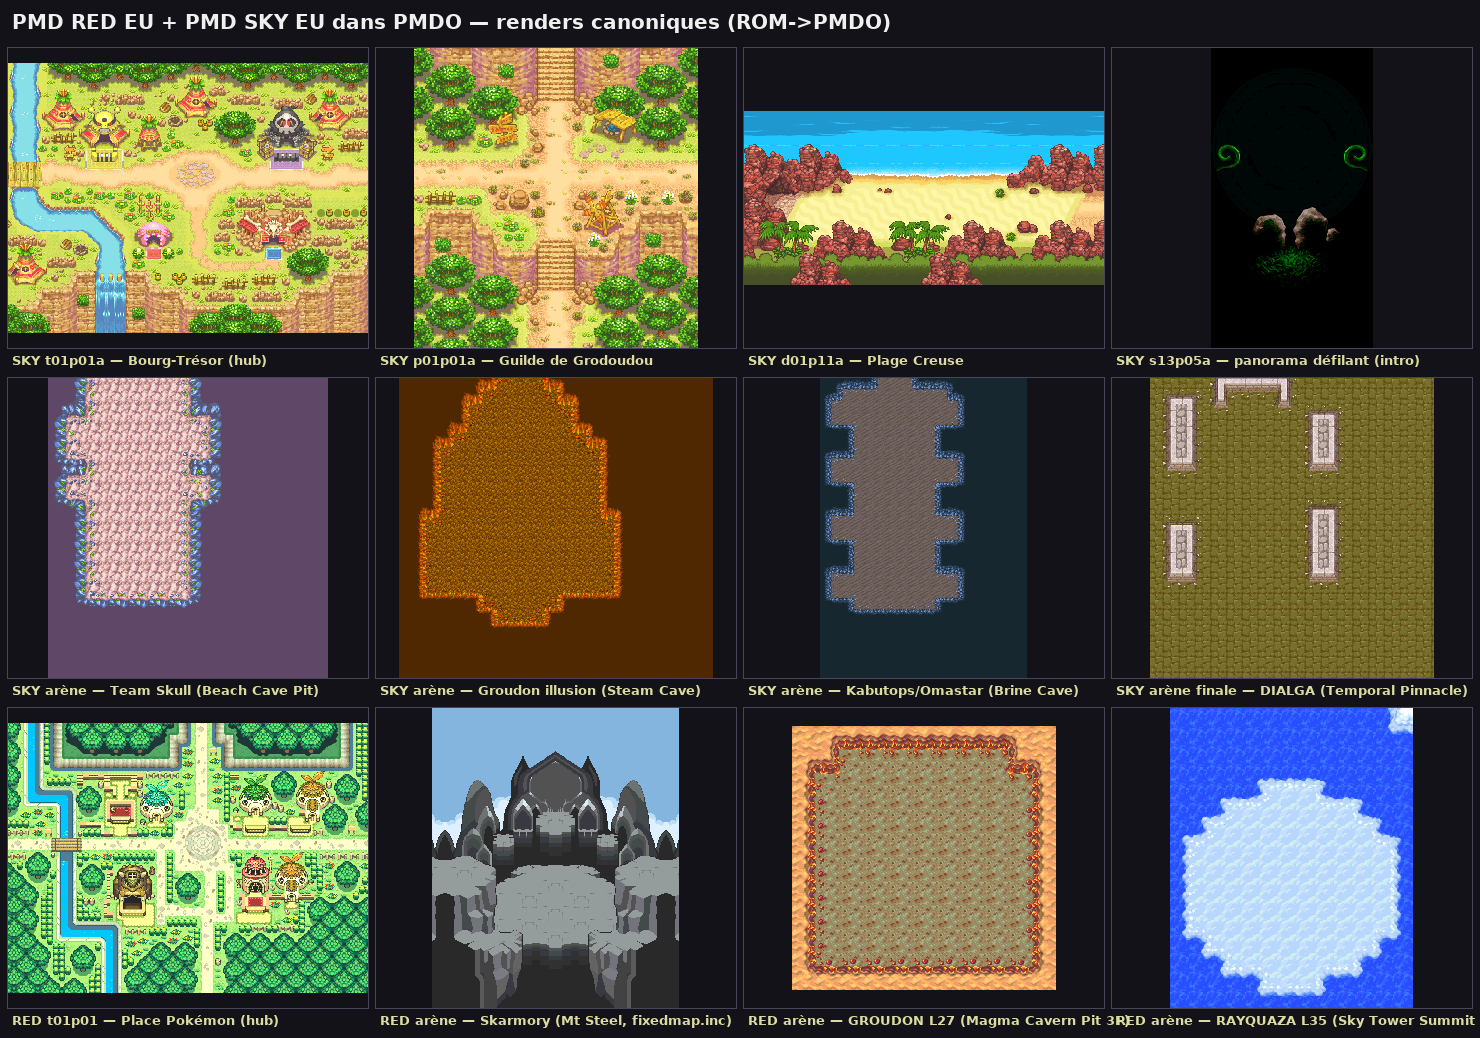
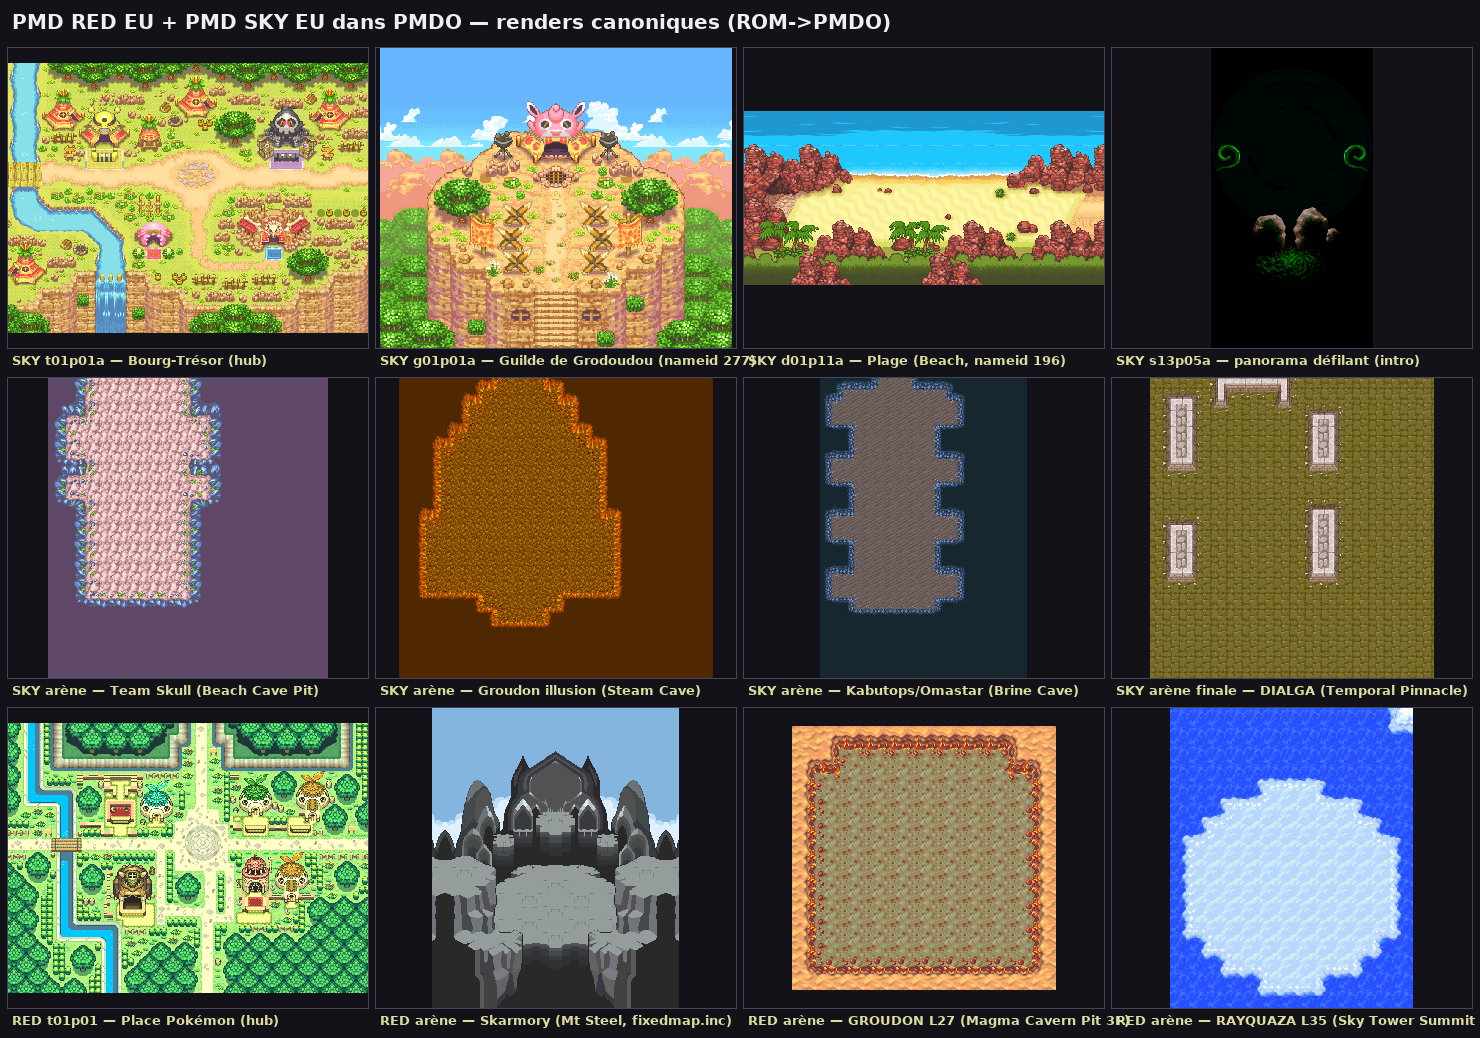
Manifest final: tableau Nom humain↔Ground prouvé (autorité ROM bloc Ground Map Names EU / pret ground_map.h), section audit grounds 688/688 PASS, showcase corrigé (Guilde=g01p01a prouvé, p01p01a=Croisement)

Changed region(s): [[0.2486, 0.0308, 0.4973, 0.3699], [0.6216, 0.3391, 0.7149, 0.3699]]

diff --git a/dev/CAMPAIGNS/MANIFEST_FINAL.md b/dev/CAMPAIGNS/MANIFEST_FINAL.md
@@ -7,9 +7,50 @@ jamais canonique. Les couvertures sont par **dimensions séparées** — aucun p
 global fusionné n'existe.
 
 Render de synthèse : `dev/docs/canonical/renders/SHOWCASE_RED_SKY.png`
-(hub Bourg-Trésor, Guilde, Plage Creuse, panorama défilant de l'intro, 4 arènes boss
-Sky dont DIALGA, Place Pokémon Red, 3 arènes boss Red dont GROUDON/RAYQUAZA décodées
-octet par octet).
+(hub Bourg-Trésor, Guilde de Grodoudou, Plage, panorama défilant de l'intro, 4 arènes
+boss Sky dont DIALGA, Place Pokémon Red, 3 arènes boss Red dont GROUDON/RAYQUAZA
+décodées octet par octet).
+
+---
+
+## 0. Correspondance Nom humain ↔ Ground technique (PROUVÉE, audit 2026-08-26)
+
+**Autorité Sky** : bloc ROM `Ground Map Names` (text_*.str EU, 5 langues), résolu à la
+base d'index 16256 — preuve croisée : G01P01A(nameid 277)=« Wigglytuff's Guild /
+Guilde de Grodoudou », T01P01A(303)=« Treasure Town / Bourg-Trésor »,
+P01P01A(290)=« Crossroads / Croisement ». Table complète :
+`PMD_SKY_EXPLORERS/Docs/LEVEL_HUMAN_NAMES.json` (366 levels nommés, 93 nameid hors
+bloc = pas de nom de lieu). **143 noms ROM appliqués au MANIFEST Sky** (anciens
+libellés conservés dans `previous_human_name`).
+
+**Autorité Red** : pret/pmd-red `ground_map.h` (enum GroundMapID) →
+`ground_map_conversion_table.c` → `map_files_table.c` (fichiers BPL/BPC/BMA/BPA) ;
+45/45 noms de donjons du manifest = pret, 0 divergence.
+
+| Nom humain (FR / EN) | Ground | Campagne | Preuve | Render | Runtime |
+|---|---|---|---|---|---|
+| Bourg-Trésor / Treasure Town | `t01p01a` (+t01p02a_sky) | Sky | nameid 303/304→bloc ROM | ✓ | LOAD+MOVE SAFE |
+| **Guilde de Grodoudou** / Wigglytuff's Guild | **`g01p01a`** (variantes b/c/2) | Sky | nameid 277→bloc ROM | ✓ | LOAD+MOVE SAFE |
+| Croisement / Crossroads | `p01p01a` | Sky | nameid 290 (l'ancien showcase l'étiquetait « Guilde » — **corrigé**) | ✓ | SAFE |
+| Plage / Beach | `d01p11a` | Sky | nameid 196 | ✓ | SAFE |
+| Café Spinda / Spinda's Café | `p01p04a` | Sky | nameid 293 | ✓ | SAFE |
+| Panorama intro (sans nom, `???` ROM) | `s13p05a` | Sky | S13P05A nameid 185=`???` | ✓ | SCROLL_PASS |
+| Place Pokémon / Pokémon Square | `t01p01` | Red | MAP_POKEMON_SQUARE→T01P01+BPA T01P011 (6 frames portées) | ✓ | journey |
+| Base d'équipe / Rescue Team Base | `t00p01` | Red | MAP_SQUARE→T00P01 (**restauré** — était écrasé par le Sky homonyme) | ✓ | LOAD_PASS |
+| Étang Barbicha / Whiscash Pond | `t01p02a` | Red | MAP_WHISCASH_POND→T01P02A+BPA T01P021 (336 frames) (**restauré**) | ✓ | LOAD_PASS |
+| Mont Gel (Ninetales) / Mt. Freeze | `d11p01/p02/p03` | Red | MAP_MT_FREEZE_* (aucun BPA ROM → statique canonique) | ✓ | journey CH? |
+| Ravin Aubaine (ép. Sunflora) / Fortune Ravine | `d45p21a` (non porté) | Sky | nameid→bloc ROM ; DUNGEON_SCREEN post-game | render ROM | NOT_BUILT |
+
+### Collisions d'ID résolues (10 découvertes par l'audit)
+
+`t00p01` et `t01p02a` : les grounds **Red GBA canoniques avaient été écrasés** par les
+ports Sky NDS homonymes (Treasure Town ≠ Whiscash Pond !). Corrigé : contenu Red
+restauré depuis 0f691fa3 (référence verrouillée), contenu Sky déplacé vers
+`t00p01_sky` / `t01p02a_sky` (convention rock_path/rock_path_sky), zone+index mis à
+jour. Les 8 autres IDs (`d18p11a, d19p11a, d20p11a, d21p21a, d21p41a, d22p11a,
+s04p01a, s21p01a`) sont du contenu Sky listé par erreur dans le manifest Red —
+marqués `is_red_canon: false`. Preuves post-correction : 96/96 grounds sky_hub_zone
+SAFE, RED_GLOBAL_JOURNEY_PASS re-vérifié.
 
 ---
 
@@ -242,6 +283,19 @@ jamais été persisté (sandbox recyclé après le pilote scroll). Reconstruit d
 ROM Sky EU par association clé rsground ↔ image ROM (BMA/BPC/BPL, 224 frames),
 **fail-closed** (0 conflit sur 18756 clés), contre-épreuve **frame 0 PIXEL_PERFECT**
 vs ROM. Outil : `dev/tools/sky_rebuild_s13p05a_sheet.py`.
+
+## 9bis. Audit exhaustif des grounds (fail-closed, 2026-08-26)
+
+`dev/tools/campaign_audit_grounds_complete.py` →
+`dev/docs/canonical/GROUNDS_COMPLETE_AUDIT.json/.md` : **688 entrées** (600 rsground
++ 88 rsmap), pour chacune : sheets référencées présentes (nom+casse exacts, quest ou
+base PMDO avec provenance tracée), **chaque clé TexLoc** référencée existe dans la
+planche, autotiles présents avec toutes leurs variantes et frames, détection
+d'animations aplaties (cycle ROM>1 vs frames portées — 193 grounds animés vérifiés,
+0 aplati), détection d'animations 100 % vides, ressource en RESERVE seulement =
+NOT_PERSISTED = FAIL. Résultat après corrections : **688/688 PASS**.
+Note : frames `Sheet:""` au sein d'anims mixtes = frames transparentes délibérées
+(blink), pas des trous — seule une animation entièrement vide est un défaut.
 
 ## 10. Index des artefacts
 
